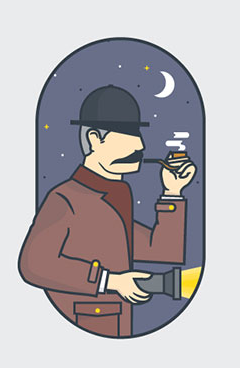
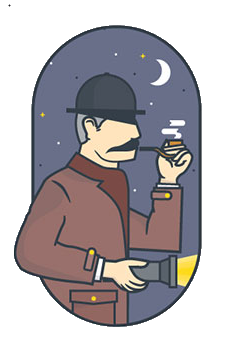
papildymai

diff --git a/index.html b/index.html
@@ -4,17 +4,15 @@
     <meta charset="UTF-8">
     <meta http-equiv="X-UA-Compatible" content="IE=edge">
     <meta name="viewport" content="width=device-width, initial-scale=1.0">
-    <title>Document</title>
+    <title>Serlokas</title>
 </head>
-<body style="display: inline-block;">
-    <div style="width: 30%;">
-        <img src="serloko_snippet.png" alt="Šerlokas">
-    </div>
-    <div style="text-align: center; width: 30%; float: left;">
-        <h1>404</h1>
-        <p>Lorem ipsum dolor sit amet consectetur adipisicing elit. Sunt facere voluptatem nobis magni, nisi recusandae!</p>
-        <p>Lorem ipsum dolor sit amet consectetur adipisicing.</p>
-        <button><a href="#">Go Home</a></button>
+<body style="display: inline-block; background-color: #edebea;">
+    <img style="width: 20%; float:left; margin-left: 22.5%; margin-right: 5%; margin-top: 15px;" src="serloko_snippet.png" alt="Šerlokas">
+    <div style="text-align: center; width: 30%; float: left; margin-top: 100px;">
+        <h1 style="display: inline-block; width: 100%; font-size: 80px; margin-top: 0; margin-bottom: 0;">404</h1>
+        <p style="display: inline-block; width: 100%; font-size: 24px; margin-top: 0; margin-bottom: 0;">Lorem ipsum dolor sit amet consectetur adipisicing elit. Sunt facere voluptatem nobis magni, nisi recusandae!</p>
+        <p style="display: inline-block; width: 100%;">Lorem ipsum dolor sit amet consectetur adipisicing.</p>
+        <a style="display: inline-block; padding: 10px; font-size: 20px; background-color: #686D8A; color: white; text-decoration: none;" href="#">Back Home</a>
     </div>
     
 </body>
